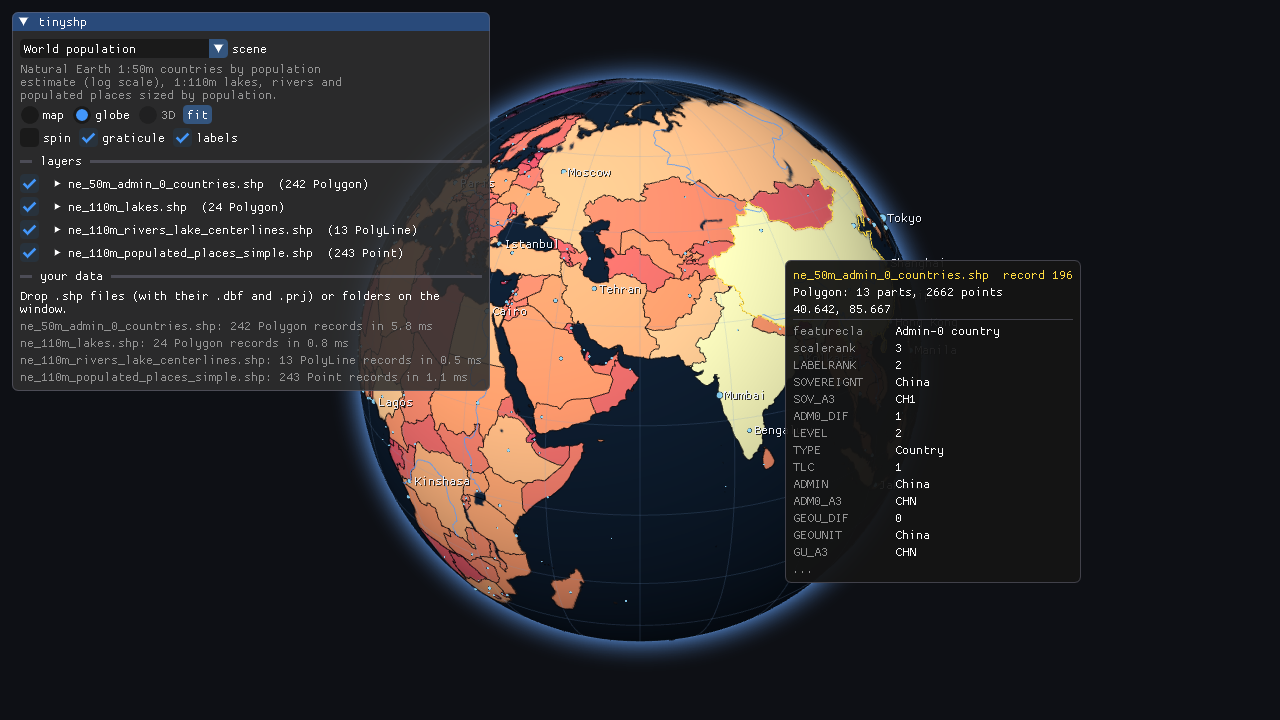
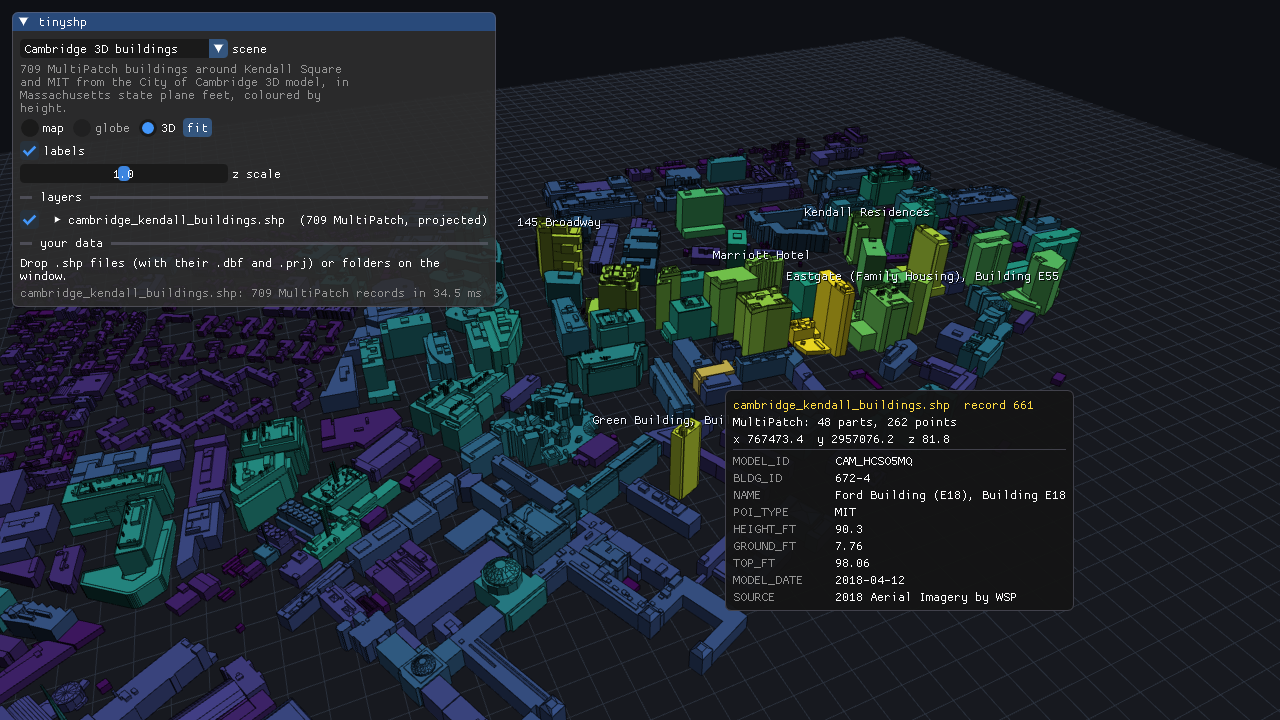
Cambridge 3D buildings first: the testbed's opening scene and the README image

diff --git a/testbed/app.cpp b/testbed/app.cpp
@@ -127,6 +127,10 @@ void cambridge(App& app)
 }
 
 constexpr std::array<SceneInfo, 5> scene_list{{
+   {"Cambridge 3D buildings",
+    "709 MultiPatch buildings around Kendall Square and MIT from the City of Cambridge 3D model, in Massachusetts state "
+    "plane feet, coloured by height.",
+    cambridge},
    {"World population",
     "Natural Earth 1:50m countries by population estimate (log scale), 1:110m lakes, rivers and populated places sized by "
     "population.",
@@ -134,10 +138,6 @@ constexpr std::array<SceneInfo, 5> scene_list{{
    {"Time zones", "Natural Earth 1:10m time zones by UTC offset, with 1:50m country borders.", time_zones},
    {"Continents", "Natural Earth 1:50m countries by continent, with the largest cities.", continents},
    {"Income groups", "Natural Earth 1:50m countries by World Bank income group.", income},
-   {"Cambridge 3D buildings",
-    "709 MultiPatch buildings around Kendall Square and MIT from the City of Cambridge 3D model, in Massachusetts state "
-    "plane feet, coloured by height.",
-    cambridge},
 }};
 
 double distance_to_segment(double px, double py, double ax, double ay, double bx, double by)

diff --git a/README.md b/README.md
@@ -9,7 +9,7 @@ shows them on a map, a globe or in 3D, and that also runs in the browser.
 **[Live demo](https://varnholt.github.io/tinyshp/)**: the testbed as WebAssembly. Drop your own shapefiles or a `.zip`
 on it; they stay in your browser.
 
-[![the testbed: Natural Earth countries by population on a globe, with the attributes of China](doc/testbed.png)](https://varnholt.github.io/tinyshp/)
+[![the testbed: City of Cambridge MultiPatch buildings around Kendall Square, coloured by height, with the attributes of one](doc/testbed.png)](https://varnholt.github.io/tinyshp/)
 
 - one header, no dependencies beyond the standard library: copy `include/tinyshp/tinyshp.hpp` into your project
 - or use it as a CMake library: `add_subdirectory`, `FetchContent` or `find_package`
@@ -118,15 +118,15 @@ wrote 709 shapes, 1906 triangles and 28654 polygon faces to kendall.obj
 
 ![Natural Earth time zones on a globe](doc/time_zones.png) ![Natural Earth countries by continent](doc/continents.png)
 
-![City of Cambridge 3D buildings around Kendall Square with the attributes of one](doc/cambridge.png)
+![Natural Earth countries by population on a globe, with the attributes of China](doc/world_population.png)
 
 The testbed draws shapefiles on a flat map, on a globe or, for 3D data, as a lit scene. It comes with a few scenes:
 
+- **Cambridge 3D buildings**: 709 MultiPatch buildings around Kendall Square and MIT from the City of Cambridge's 3D model,
+  coloured by height
 - **World population**: countries by population on a globe, with lakes, rivers and cities sized by population
 - **Time zones**: Natural Earth's 1:10m time zones by UTC offset under the country borders
 - **Continents** and **Income groups**: categorical maps
-- **Cambridge 3D buildings**: 709 MultiPatch buildings around Kendall Square and MIT from the City of Cambridge's 3D model,
-  coloured by height
 
 Hover over anything to see its attributes. A Dear ImGui panel colours each layer by a field (categories or a graduated
 ramp, optionally on a log scale), sizes points by a field and labels them. Your own files work too: drop `.shp` files,
@@ -150,7 +150,7 @@ Space spin the globe.
 Screenshots without a window, optionally with the panel and the tooltip at a pixel:
 
 ```sh
-./build/testbed/tinyshp_testbed --scene 4 --size 1280x720 --screenshot cambridge.png --mouse 640,360
+./build/testbed/tinyshp_testbed --scene 0 --size 1280x720 --screenshot cambridge.png --mouse 640,360
 ```
 
 The browser build:
